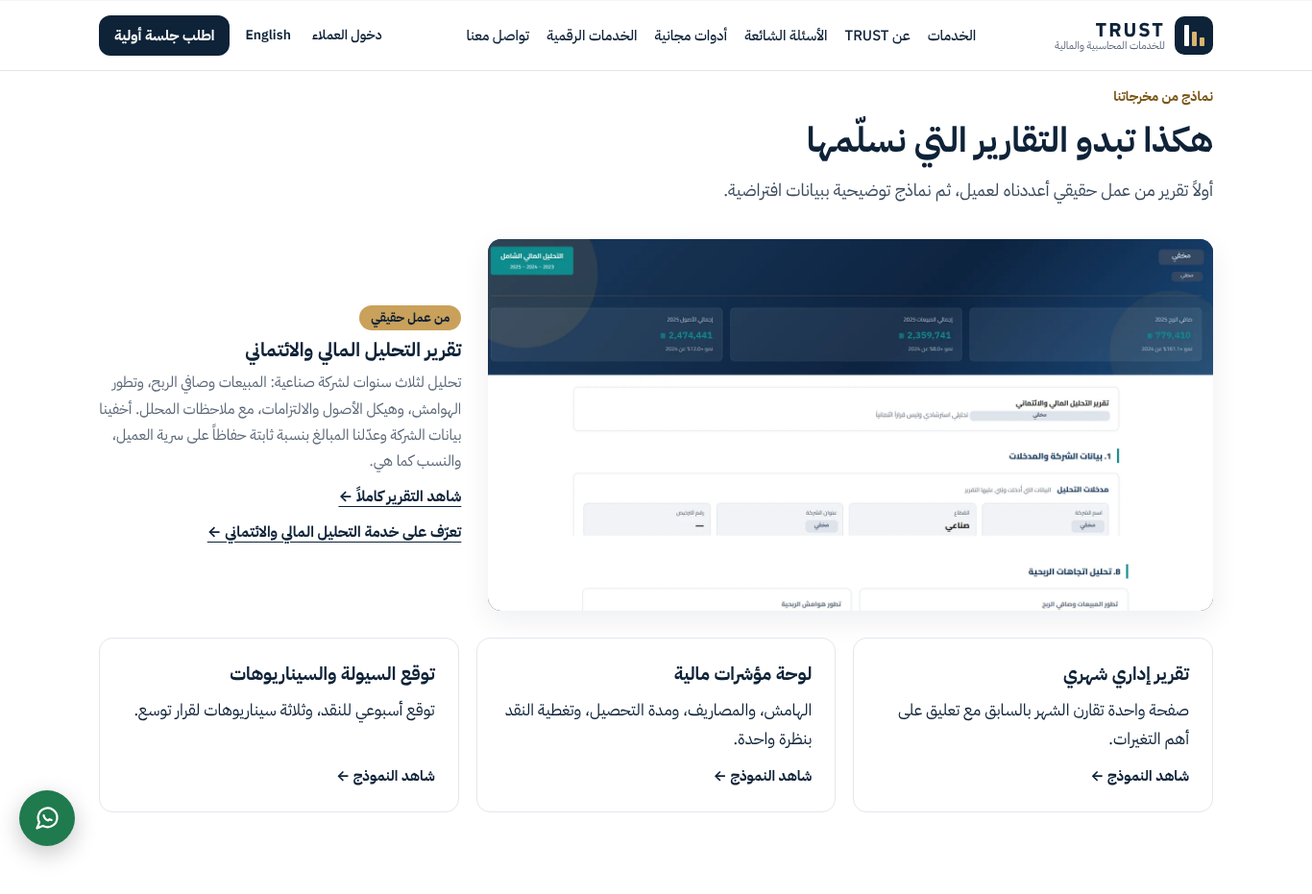
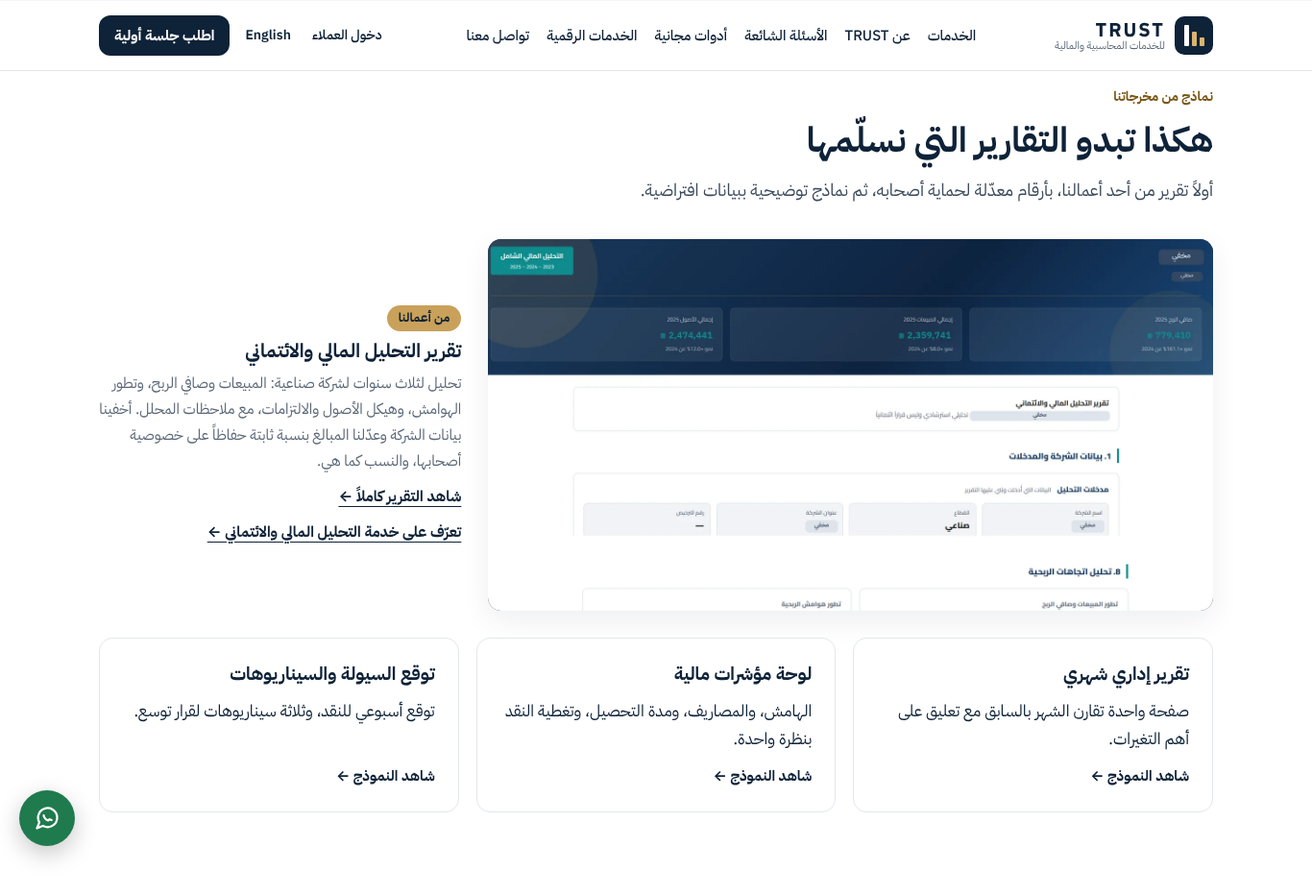
Portfolio v4.1: accurate report wording, drop unconfirmed policy promises
Claude-Session: https://claude.ai/code/session_01EGT2QwuJpSEJ11Zj2ptHhS

diff --git a/changes/portfolio-section/deploy/trustfins-site/index.html b/changes/portfolio-section/deploy/trustfins-site/index.html
@@ -185,11 +185,10 @@
 <section class="sec sec-alt" aria-labelledby="why-h">
 <div class="wrap">
 <div class="sec-head"><span class="kicker">لماذا TRUST ومن نخدم</span><h2 id="why-h">طريقة عمل تناسب طبيعة نشاطك</h2></div>
-<div class="grid g4">
+<div class="grid g3">
 <article class="card"><span class="ic"><svg viewBox="0 0 24 24" fill="none" stroke="currentColor" stroke-width="1.8" stroke-linecap="round" stroke-linejoin="round" aria-hidden="true"><circle cx="12" cy="12" r="9"/><circle cx="12" cy="12" r="5"/><circle cx="12" cy="12" r="1"/></svg></span><h3>تركيز على قرار الإدارة</h3><p>كل تقرير نعدّه يجيب عن سؤال عملي: ماذا نفعل الآن؟</p></article>
 <article class="card"><span class="ic"><svg viewBox="0 0 24 24" fill="none" stroke="currentColor" stroke-width="1.8" stroke-linecap="round" stroke-linejoin="round" aria-hidden="true"><rect x="3" y="7" width="18" height="13" rx="2"/><path d="M8 7V5a2 2 0 0 1 2-2h4a2 2 0 0 1 2 2v2"/></svg></span><h3>نفهم نشاطك قبل أرقامه</h3><p>نقرأ الأرقام في سياق قطاعك والسوق الفلسطيني وتعدد العملات، بحلول على قدر مشروعك وميزانيته.</p></article>
 <article class="card"><span class="ic"><svg viewBox="0 0 24 24" fill="none" stroke="currentColor" stroke-width="1.8" stroke-linecap="round" stroke-linejoin="round" aria-hidden="true"><path d="M14.7 6.3a4 4 0 0 0-5.4 5.4L3 18v3h3l6.3-6.3a4 4 0 0 0 5.4-5.4l-2.5 2.5-2.4-.6-.6-2.4z"/></svg></span><h3>حلول قابلة للتطبيق</h3><p>أدوات وأنظمة يستخدمها فريقك يومياً، لا تقارير تبقى على الرف.</p></article>
-<article class="card"><span class="ic"><svg viewBox="0 0 24 24" fill="none" stroke="currentColor" stroke-width="1.8" stroke-linecap="round" stroke-linejoin="round" aria-hidden="true"><rect x="5" y="11" width="14" height="10" rx="2"/><path d="M8 11V7a4 4 0 0 1 8 0v4"/></svg></span><h3>وضوح وسرية</h3><p>نطاق عمل مكتوب، ومخرجات وأتعاب متفق عليها مسبقاً، وبياناتك لا تُستخدم خارج هذا الإطار.</p></article>
 </div>
 <p class="muted" style="margin:28px 0 10px">صفحات مخصصة بأمثلة ومشكلات كل قطاع:</p>
 <div class="choose" style="margin-bottom:18px"><a href="/restaurants-cafes"><b>المطاعم والمقاهي</b><span>تكلفة الطبق، الهدر، السيولة الموسمية ←</span></a><a href="/retail-shops"><b>المحلات التجارية والتجزئة</b><span>المخزون، ديون الزبائن، الشيكات ←</span></a><a href="/small-factories"><b>المصانع والورش الصغيرة</b><span>تكلفة المنتج، تسعير الطلبيات، المعدات ←</span></a></div>
@@ -206,8 +205,8 @@
 </section>
 <section class="sec" aria-labelledby="samples-h">
 <div class="wrap">
-<div class="sec-head"><span class="kicker">نماذج من مخرجاتنا</span><h2 id="samples-h">هكذا تبدو التقارير التي نسلّمها</h2><p>أولاً تقرير من عمل حقيقي أعددناه لعميل، ثم نماذج توضيحية ببيانات افتراضية.</p></div>
-<style>.rpt{margin:0 0 28px;display:grid;gap:18px 28px;align-items:center}.rpt-media{display:block;border-radius:var(--r,14px);overflow:hidden;background:var(--navy,#0E2238);box-shadow:var(--shadow,0 10px 30px rgba(14,34,56,.07))}.rpt-media img{display:block;width:100%;height:auto;aspect-ratio:1600/820}.rpt-cap{display:flex;flex-direction:column;gap:6px}.rpt-cap h3{font-size:20px}.rpt-cap p{color:var(--ink-2,#5B6878);font-size:15.5px}.rpt-cap a{font-weight:700;font-size:15.5px;text-underline-offset:5px;padding-top:4px}.rpt-tag{align-self:flex-start;font-size:13px;font-weight:700;color:var(--navy,#0E2238);background:var(--gold,#C9A15A);border-radius:99px;padding:2px 12px}@media (min-width:981px){.rpt{grid-template-columns:minmax(0,2fr) minmax(0,1fr)}}@media (max-width:680px){.rpt-media img{aspect-ratio:760/890}}</style><figure class="rpt"><a class="rpt-media" href="/assets/img/portfolio/pf-7-full.webp" target="_blank" rel="noopener" tabindex="-1"><picture><source media="(max-width:680px)" srcset="/assets/img/portfolio/pf-7-m.webp" width="760" height="890"><img src="/assets/img/portfolio/pf-7-d.webp" width="1600" height="820" loading="lazy" decoding="async" alt="صفحات من تقرير تحليل مالي وائتماني لشركة صناعية: بطاقات إجمالي الأصول والمبيعات وصافي الربح لعام 2025، ورسمان لتطور المبيعات وهوامش الربحية من 2023 إلى 2025، وجدولان لهيكل الأصول والالتزامات. اسم الشركة وعنوانها مخفيان."></picture></a><figcaption class="rpt-cap"><span class="rpt-tag">من عمل حقيقي</span><h3>تقرير التحليل المالي والائتماني</h3><p>تحليل لثلاث سنوات لشركة صناعية: المبيعات وصافي الربح، وتطور الهوامش، وهيكل الأصول والالتزامات، مع ملاحظات المحلل. أخفينا بيانات الشركة وعدّلنا المبالغ بنسبة ثابتة حفاظاً على سرية العميل، والنسب كما هي.</p><a href="/assets/img/portfolio/pf-7-full.webp" target="_blank" rel="noopener" data-ev="samples_click" data-main="real-report-full">شاهد التقرير كاملاً ←</a><a href="/credit-analysis" data-ev="samples_click" data-main="real-report-service">تعرّف على خدمة التحليل المالي والائتماني ←</a></figcaption></figure><div class="grid g3">
+<div class="sec-head"><span class="kicker">نماذج من مخرجاتنا</span><h2 id="samples-h">هكذا تبدو التقارير التي نسلّمها</h2><p>أولاً تقرير من أحد أعمالنا، بأرقام معدّلة لحماية أصحابه، ثم نماذج توضيحية ببيانات افتراضية.</p></div>
+<style>.rpt{margin:0 0 28px;display:grid;gap:18px 28px;align-items:center}.rpt-media{display:block;border-radius:var(--r,14px);overflow:hidden;background:var(--navy,#0E2238);box-shadow:var(--shadow,0 10px 30px rgba(14,34,56,.07))}.rpt-media img{display:block;width:100%;height:auto;aspect-ratio:1600/820}.rpt-cap{display:flex;flex-direction:column;gap:6px}.rpt-cap h3{font-size:20px}.rpt-cap p{color:var(--ink-2,#5B6878);font-size:15.5px}.rpt-cap a{font-weight:700;font-size:15.5px;text-underline-offset:5px;padding-top:4px}.rpt-tag{align-self:flex-start;font-size:13px;font-weight:700;color:var(--navy,#0E2238);background:var(--gold,#C9A15A);border-radius:99px;padding:2px 12px}@media (min-width:981px){.rpt{grid-template-columns:minmax(0,2fr) minmax(0,1fr)}}@media (max-width:680px){.rpt-media img{aspect-ratio:760/890}}</style><figure class="rpt"><a class="rpt-media" href="/assets/img/portfolio/pf-7-full.webp" target="_blank" rel="noopener" tabindex="-1"><picture><source media="(max-width:680px)" srcset="/assets/img/portfolio/pf-7-m.webp" width="760" height="890"><img src="/assets/img/portfolio/pf-7-d.webp" width="1600" height="820" loading="lazy" decoding="async" alt="صفحات من تقرير تحليل مالي وائتماني لشركة صناعية: بطاقات إجمالي الأصول والمبيعات وصافي الربح لعام 2025، ورسمان لتطور المبيعات وهوامش الربحية من 2023 إلى 2025، وجدولان لهيكل الأصول والالتزامات. اسم الشركة وعنوانها مخفيان."></picture></a><figcaption class="rpt-cap"><span class="rpt-tag">من أعمالنا</span><h3>تقرير التحليل المالي والائتماني</h3><p>تحليل لثلاث سنوات لشركة صناعية: المبيعات وصافي الربح، وتطور الهوامش، وهيكل الأصول والالتزامات، مع ملاحظات المحلل. أخفينا بيانات الشركة وعدّلنا المبالغ بنسبة ثابتة حفاظاً على خصوصية أصحابها، والنسب كما هي.</p><a href="/assets/img/portfolio/pf-7-full.webp" target="_blank" rel="noopener" data-ev="samples_click" data-main="real-report-full">شاهد التقرير كاملاً ←</a><a href="/credit-analysis" data-ev="samples_click" data-main="real-report-service">تعرّف على خدمة التحليل المالي والائتماني ←</a></figcaption></figure><div class="grid g3">
 <a class="card" href="/samples#monthly-report" style="text-decoration:none"><h3>تقرير إداري شهري</h3><p>صفحة واحدة تقارن الشهر بالسابق مع تعليق على أهم التغيرات.</p><span class="card-link">شاهد النموذج ←</span></a>
 <a class="card" href="/samples#kpi-dashboard" style="text-decoration:none"><h3>لوحة مؤشرات مالية</h3><p>الهامش، والمصاريف، ومدة التحصيل، وتغطية النقد بنظرة واحدة.</p><span class="card-link">شاهد النموذج ←</span></a>
 <a class="card" href="/samples#cash-forecast" style="text-decoration:none"><h3>توقع السيولة والسيناريوهات</h3><p>توقع أسبوعي للنقد، وثلاثة سيناريوهات لقرار توسع.</p><span class="card-link">شاهد النموذج ←</span></a>

diff --git a/changes/portfolio-section/deploy/trust-en/index.html b/changes/portfolio-section/deploy/trust-en/index.html
@@ -184,11 +184,10 @@
 <section class="sec sec-alt" aria-labelledby="why-h">
 <div class="wrap">
 <div class="sec-head"><span class="kicker">Why TRUST, and who we serve</span><h2 id="why-h">A way of working that fits your business</h2></div>
-<div class="grid g4">
+<div class="grid g3">
 <article class="card"><span class="ic"><svg viewBox="0 0 24 24" fill="none" stroke="currentColor" stroke-width="1.8" stroke-linecap="round" stroke-linejoin="round" aria-hidden="true"><circle cx="12" cy="12" r="9"/><circle cx="12" cy="12" r="5"/><circle cx="12" cy="12" r="1"/></svg></span><h3>A focus on management decisions</h3><p>Every report we prepare answers a practical question: what should we do now?</p></article>
 <article class="card"><span class="ic"><svg viewBox="0 0 24 24" fill="none" stroke="currentColor" stroke-width="1.8" stroke-linecap="round" stroke-linejoin="round" aria-hidden="true"><rect x="3" y="7" width="18" height="13" rx="2"/><path d="M8 7V5a2 2 0 0 1 2-2h4a2 2 0 0 1 2 2v2"/></svg></span><h3>We understand your business before its numbers</h3><p>We read the numbers in the context of your sector, the Palestinian market and multiple currencies, with solutions sized to your business and budget.</p></article>
 <article class="card"><span class="ic"><svg viewBox="0 0 24 24" fill="none" stroke="currentColor" stroke-width="1.8" stroke-linecap="round" stroke-linejoin="round" aria-hidden="true"><path d="M14.7 6.3a4 4 0 0 0-5.4 5.4L3 18v3h3l6.3-6.3a4 4 0 0 0 5.4-5.4l-2.5 2.5-2.4-.6-.6-2.4z"/></svg></span><h3>Solutions you can put to work</h3><p>Tools and systems your team uses every day, not reports that sit on a shelf.</p></article>
-<article class="card"><span class="ic"><svg viewBox="0 0 24 24" fill="none" stroke="currentColor" stroke-width="1.8" stroke-linecap="round" stroke-linejoin="round" aria-hidden="true"><rect x="5" y="11" width="14" height="10" rx="2"/><path d="M8 11V7a4 4 0 0 1 8 0v4"/></svg></span><h3>Clarity and confidentiality</h3><p>A written scope, with deliverables and fees agreed in advance, and your data is never used outside that scope.</p></article>
 </div>
 <p class="muted" style="margin:28px 0 10px">Dedicated pages with examples and the typical problems of each sector:</p>
 <div class="choose" style="margin-bottom:18px"><a href="/restaurants-cafes" class="ar-link" hreflang="ar" title="In Arabic"><b>Restaurants &amp; cafés</b><span>Dish costing, waste, seasonal cash flow →</span></a><a href="/retail-shops" class="ar-link" hreflang="ar" title="In Arabic"><b>Retail shops</b><span>Inventory, customer debts, cheques →</span></a><a href="/small-factories" class="ar-link" hreflang="ar" title="In Arabic"><b>Small factories &amp; workshops</b><span>Product cost, order pricing, equipment →</span></a></div>
@@ -205,8 +204,8 @@
 </section>
 <section class="sec" aria-labelledby="samples-h">
 <div class="wrap">
-<div class="sec-head"><span class="kicker">Samples of our work</span><h2 id="samples-h">This is what the reports we deliver look like</h2><p>First, a report from real client work. Below it, illustrative samples using fictional data.</p></div>
-<style>.rpt{margin:0 0 28px;display:grid;gap:18px 28px;align-items:center}.rpt-media{display:block;border-radius:var(--r,14px);overflow:hidden;background:var(--navy,#0E2238);box-shadow:var(--shadow,0 10px 30px rgba(14,34,56,.07))}.rpt-media img{display:block;width:100%;height:auto;aspect-ratio:1600/820}.rpt-cap{display:flex;flex-direction:column;gap:6px}.rpt-cap h3{font-size:20px}.rpt-cap p{color:var(--ink-2,#5B6878);font-size:15.5px}.rpt-cap a{font-weight:700;font-size:15.5px;text-underline-offset:5px;padding-top:4px}.rpt-tag{align-self:flex-start;font-size:13px;font-weight:700;color:var(--navy,#0E2238);background:var(--gold,#C9A15A);border-radius:99px;padding:2px 12px}@media (min-width:981px){.rpt{grid-template-columns:minmax(0,2fr) minmax(0,1fr)}}@media (max-width:680px){.rpt-media img{aspect-ratio:760/890}}</style><figure class="rpt"><a class="rpt-media" href="/assets/img/portfolio/pf-7-full.webp" target="_blank" rel="noopener" tabindex="-1"><picture><source media="(max-width:680px)" srcset="/assets/img/portfolio/pf-7-m.webp" width="760" height="890"><img src="/assets/img/portfolio/pf-7-d.webp" width="1600" height="820" loading="lazy" decoding="async" alt="Pages from a financial and credit analysis report for a manufacturing company: 2025 total assets, sales and net profit cards, charts of sales and profit margins from 2023 to 2025, and tables of asset and liability structure. The company name and address are hidden."></picture></a><figcaption class="rpt-cap"><span class="rpt-tag">Real client work</span><h3>Financial and credit analysis report</h3><p>A three-year analysis for a manufacturing company: sales and net profit, margin trends, and the structure of assets and liabilities, with analyst notes. Company details are hidden and amounts are scaled by a fixed factor to protect client confidentiality; ratios are unchanged.</p><a href="/assets/img/portfolio/pf-7-full.webp" target="_blank" rel="noopener" data-ev="samples_click" data-main="real-report-full">View the full report →</a><a href="/en/credit-analysis" data-ev="samples_click" data-main="real-report-service">Financial and credit analysis service →</a></figcaption></figure><div class="grid g3">
+<div class="sec-head"><span class="kicker">Samples of our work</span><h2 id="samples-h">This is what the reports we deliver look like</h2><p>First, a report from one of our projects, with figures altered to protect its owners. Below it, illustrative samples using fictional data.</p></div>
+<style>.rpt{margin:0 0 28px;display:grid;gap:18px 28px;align-items:center}.rpt-media{display:block;border-radius:var(--r,14px);overflow:hidden;background:var(--navy,#0E2238);box-shadow:var(--shadow,0 10px 30px rgba(14,34,56,.07))}.rpt-media img{display:block;width:100%;height:auto;aspect-ratio:1600/820}.rpt-cap{display:flex;flex-direction:column;gap:6px}.rpt-cap h3{font-size:20px}.rpt-cap p{color:var(--ink-2,#5B6878);font-size:15.5px}.rpt-cap a{font-weight:700;font-size:15.5px;text-underline-offset:5px;padding-top:4px}.rpt-tag{align-self:flex-start;font-size:13px;font-weight:700;color:var(--navy,#0E2238);background:var(--gold,#C9A15A);border-radius:99px;padding:2px 12px}@media (min-width:981px){.rpt{grid-template-columns:minmax(0,2fr) minmax(0,1fr)}}@media (max-width:680px){.rpt-media img{aspect-ratio:760/890}}</style><figure class="rpt"><a class="rpt-media" href="/assets/img/portfolio/pf-7-full.webp" target="_blank" rel="noopener" tabindex="-1"><picture><source media="(max-width:680px)" srcset="/assets/img/portfolio/pf-7-m.webp" width="760" height="890"><img src="/assets/img/portfolio/pf-7-d.webp" width="1600" height="820" loading="lazy" decoding="async" alt="Pages from a financial and credit analysis report for a manufacturing company: 2025 total assets, sales and net profit cards, charts of sales and profit margins from 2023 to 2025, and tables of asset and liability structure. The company name and address are hidden."></picture></a><figcaption class="rpt-cap"><span class="rpt-tag">From our work</span><h3>Financial and credit analysis report</h3><p>A three-year analysis for a manufacturing company: sales and net profit, margin trends, and the structure of assets and liabilities, with analyst notes. Company details are hidden and amounts are scaled by a fixed factor to protect the owners&#x27; privacy; ratios are unchanged.</p><a href="/assets/img/portfolio/pf-7-full.webp" target="_blank" rel="noopener" data-ev="samples_click" data-main="real-report-full">View the full report →</a><a href="/en/credit-analysis" data-ev="samples_click" data-main="real-report-service">Financial and credit analysis service →</a></figcaption></figure><div class="grid g3">
 <a class="card" href="/samples#monthly-report" style="text-decoration:none" hreflang="ar" title="In Arabic"><h3>Monthly management report</h3><p>One page comparing the month with the previous one, with commentary on the main changes.</p><span class="card-link">View the sample <span class="ar-link" aria-hidden="true"></span> →</span></a>
 <a class="card" href="/samples#kpi-dashboard" style="text-decoration:none" hreflang="ar" title="In Arabic"><h3>Financial KPI dashboard</h3><p>Margin, expenses, collection period and cash cover at a glance.</p><span class="card-link">View the sample <span class="ar-link" aria-hidden="true"></span> →</span></a>
 <a class="card" href="/samples#cash-forecast" style="text-decoration:none" hreflang="ar" title="In Arabic"><h3>Cash forecast &amp; scenarios</h3><p>A weekly cash forecast and three scenarios for an expansion decision.</p><span class="card-link">View the sample <span class="ar-link" aria-hidden="true"></span> →</span></a>

diff --git a/changes/portfolio-section/tools/build.py b/changes/portfolio-section/tools/build.py
@@ -68,11 +68,11 @@ SLIDES = [
 REPORT = dict(
         wide=True, full="/assets/img/portfolio/pf-7-full.webp",
         ar=dict(t="تقرير التحليل المالي والائتماني",
-                d="تحليل لثلاث سنوات لشركة صناعية: المبيعات وصافي الربح، وتطور الهوامش، وهيكل الأصول والالتزامات، مع ملاحظات المحلل. أخفينا بيانات الشركة وعدّلنا المبالغ بنسبة ثابتة حفاظاً على سرية العميل، والنسب كما هي.",
+                d="تحليل لثلاث سنوات لشركة صناعية: المبيعات وصافي الربح، وتطور الهوامش، وهيكل الأصول والالتزامات، مع ملاحظات المحلل. أخفينا بيانات الشركة وعدّلنا المبالغ بنسبة ثابتة حفاظاً على خصوصية أصحابها، والنسب كما هي.",
                 alt="صفحات من تقرير تحليل مالي وائتماني لشركة صناعية: بطاقات إجمالي الأصول والمبيعات وصافي الربح لعام 2025، ورسمان لتطور المبيعات وهوامش الربحية من 2023 إلى 2025، وجدولان لهيكل الأصول والالتزامات. اسم الشركة وعنوانها مخفيان.",
                 a="تعرّف على خدمة التحليل المالي والائتماني", href="/credit-analysis", fa="شاهد التقرير كاملاً"),
         en=dict(t="Financial and credit analysis report",
-                d="A three-year analysis for a manufacturing company: sales and net profit, margin trends, and the structure of assets and liabilities, with analyst notes. Company details are hidden and amounts are scaled by a fixed factor to protect client confidentiality; ratios are unchanged.",
+                d="A three-year analysis for a manufacturing company: sales and net profit, margin trends, and the structure of assets and liabilities, with analyst notes. Company details are hidden and amounts are scaled by a fixed factor to protect the owners' privacy; ratios are unchanged.",
                 alt="Pages from a financial and credit analysis report for a manufacturing company: 2025 total assets, sales and net profit cards, charts of sales and profit margins from 2023 to 2025, and tables of asset and liability structure. The company name and address are hidden.",
                 a="Financial and credit analysis service", href="/en/credit-analysis", fa="View the full report"))
 
@@ -149,11 +149,11 @@ RPT_CSS = ('<style>.rpt{margin:0 0 28px;display:grid;gap:18px 28px;align-items:c
   '@media (max-width:680px){.rpt-media img{aspect-ratio:760/890}}</style>')
 
 RPT_UI = dict(
-    ar=dict(tag="من عمل حقيقي", arrow="←",
-            sub="أولاً تقرير من عمل حقيقي أعددناه لعميل، ثم نماذج توضيحية ببيانات افتراضية.",
+    ar=dict(tag="من أعمالنا", arrow="←",
+            sub="أولاً تقرير من أحد أعمالنا، بأرقام معدّلة لحماية أصحابه، ثم نماذج توضيحية ببيانات افتراضية.",
             old="نماذج توضيحية ببيانات افتراضية، ليست أعمالاً لعملاء حقيقيين."),
-    en=dict(tag="Real client work", arrow="→",
-            sub="First, a report from real client work. Below it, illustrative samples using fictional data.",
+    en=dict(tag="From our work", arrow="→",
+            sub="First, a report from one of our projects, with figures altered to protect its owners. Below it, illustrative samples using fictional data.",
             old="Illustrative samples using fictional data, not work for real clients."),
 )
 
@@ -187,13 +187,13 @@ MERGED = dict(
         ("target", "تركيز على قرار الإدارة", "كل تقرير نعدّه يجيب عن سؤال عملي: ماذا نفعل الآن؟"),
         ("case", "نفهم نشاطك قبل أرقامه", "نقرأ الأرقام في سياق قطاعك والسوق الفلسطيني وتعدد العملات، بحلول على قدر مشروعك وميزانيته."),
         ("tool", "حلول قابلة للتطبيق", "أدوات وأنظمة يستخدمها فريقك يومياً، لا تقارير تبقى على الرف."),
-        ("lock", "وضوح وسرية", "نطاق عمل مكتوب، ومخرجات وأتعاب متفق عليها مسبقاً، وبياناتك لا تُستخدم خارج هذا الإطار.")],
+        ],
         sectors="صفحات مخصصة بأمثلة ومشكلات كل قطاع:"),
     en=dict(kicker="Why TRUST, and who we serve", h="A way of working that fits your business", cards=[
         ("target", "A focus on management decisions", "Every report we prepare answers a practical question: what should we do now?"),
         ("case", "We understand your business before its numbers", "We read the numbers in the context of your sector, the Palestinian market and multiple currencies, with solutions sized to your business and budget."),
         ("tool", "Solutions you can put to work", "Tools and systems your team uses every day, not reports that sit on a shelf."),
-        ("lock", "Clarity and confidentiality", "A written scope, with deliverables and fees agreed in advance, and your data is never used outside that scope.")],
+        ],
         sectors="Dedicated pages with examples and the typical problems of each sector:"),
 )
 
@@ -211,7 +211,7 @@ def merge_why_who(s, lang):
     cards = "".join(f'<article class="card">{icon[k]}<h3>{e(t)}</h3><p>{e(d)}</p></article>\n' for k, t, d in m["cards"])
     out = ('<section class="sec sec-alt" aria-labelledby="why-h">\n<div class="wrap">\n'
            f'<div class="sec-head"><span class="kicker">{e(m["kicker"])}</span><h2 id="why-h">{e(m["h"])}</h2></div>\n'
-           f'<div class="grid g4">\n{cards}</div>\n'
+           f'<div class="grid g3">\n{cards}</div>\n'
            f'<p class="muted" style="margin:28px 0 10px">{e(m["sectors"])}</p>\n{choose}\n</div>\n</section>')
     return s[:a] + out + s[b:]
 
